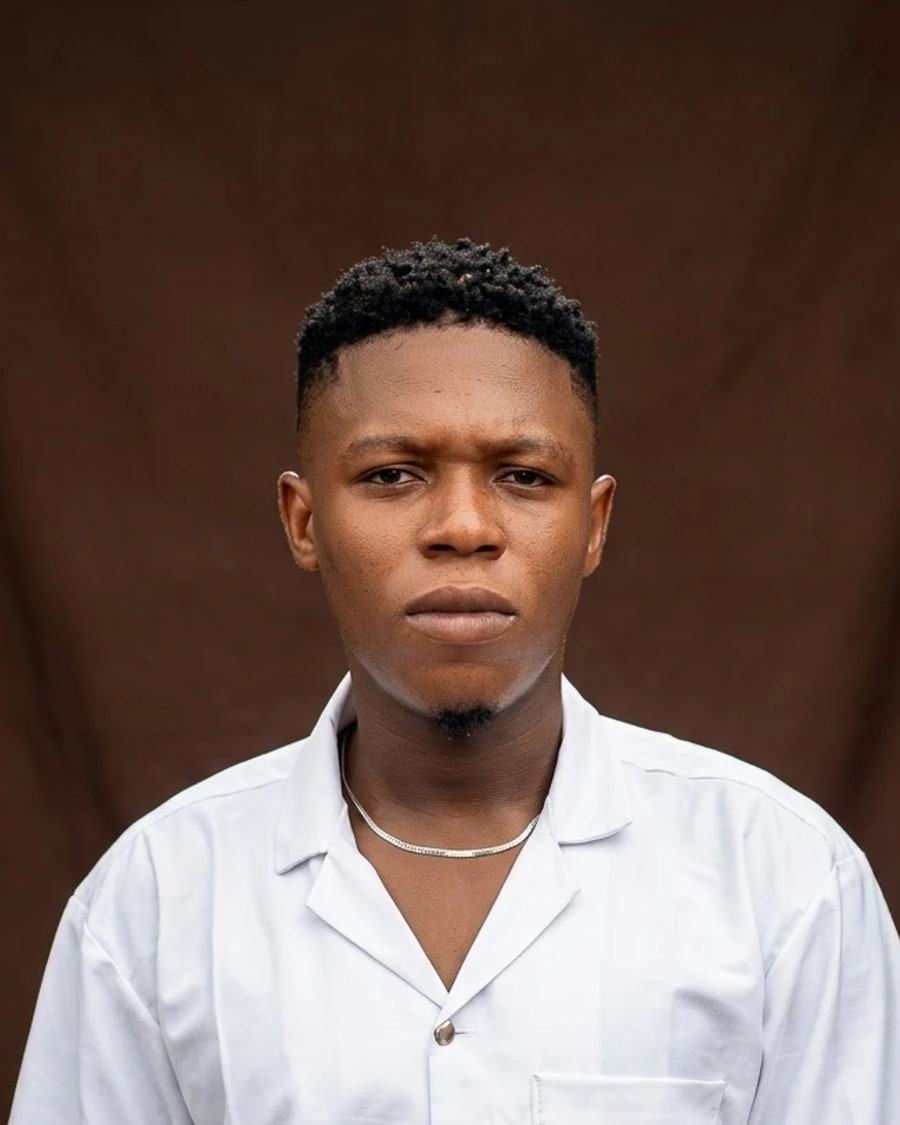
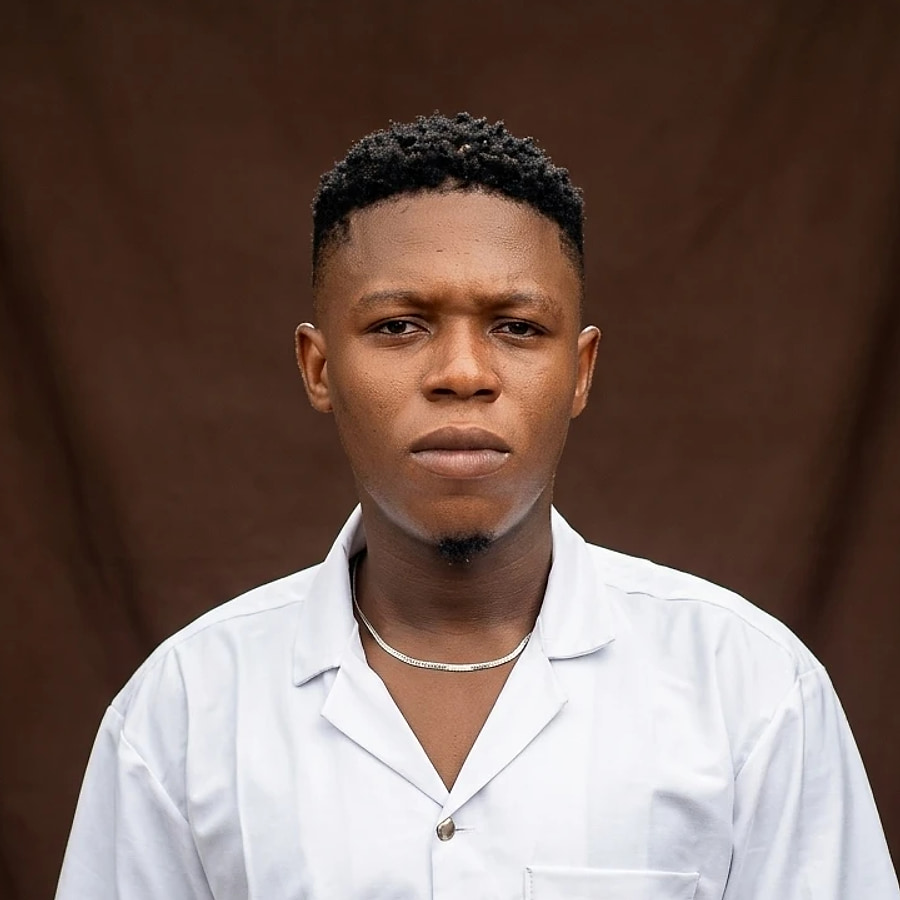
Switch the portrait frames to circles and re-crop to match
Reframes the photo the way the reference card presents it: a circular mask
with the head prominent and the first shirt button just inside the bottom of
the circle.

A circle needs a different crop from a 4:5 rectangle — the corners are masked
away, and the frame is deepest along the vertical centre line. So the photo is
now cropped square, sized so the head sits on that centre line where there is
most room. Candidates at 700 / 760 / 800px were rendered with the actual
circular mask applied and compared rather than guessed at; 720px was chosen,
putting the head at ~44% of the circle's height with 56px of clearance under
the button. Judging these unmasked would have been misleading.

Frames changed from rounded rectangles to circles in all three places — the
home hero, the home About teaser, and the About page — each with a concentric
hairline ring standing in for the reference card's outer ring, kept thin to
match the site's editorial rules rather than a heavy band.

Quality: resampled with lanczos3 and a light unsharp mask to recover the
crispness lost to the 1.25x upscale, at JPEG q92 with 4:4:4 chroma (no
subsampling, so the collar and chain edges stay clean). The source is only
800x1334, so this is close to the honest ceiling — a higher-resolution
original is still the real fix, noted in TODO-BEFORE-LAUNCH.

daniel-thumb.jpg is deleted. Now that every frame is a circle, the teaser uses
the same square source and next/image emits the small size, so a second file
[…]

diff --git a/app/page.tsx b/app/page.tsx
@@ -51,22 +51,22 @@ export default function HomePage() {
             </div>
           </div>
 
-          {/* Editorial portrait: framed rectangle, thin rule, not a floating
-              circle avatar. daniel.jpg is a 4:5 crop, so object-cover never
-              re-crops it — swapping in another photo at 4:5 keeps this framing. */}
+          {/* Circular portrait inside a concentric hairline ring.
+              daniel.jpg is cropped square for exactly this mask, so object-cover
+              never re-crops it — any replacement should be square too. */}
           <div className="md:col-span-5">
-            <figure className="relative mx-auto w-full max-w-[340px] md:max-w-none">
+            <figure className="relative mx-auto w-full max-w-[300px] sm:max-w-[340px] md:max-w-[400px]">
               <div
                 aria-hidden="true"
-                className="absolute -top-3 -right-3 bottom-3 left-3 rounded-md border border-hairline"
+                className="absolute -inset-3 rounded-full border border-hairline sm:-inset-4"
               />
-              <div className="relative aspect-[4/5] w-full overflow-hidden rounded-md border border-hairline bg-card">
+              <div className="relative aspect-square w-full overflow-hidden rounded-full border border-hairline bg-card">
                 <Image
                   src="/daniel.jpg"
                   alt={`Portrait of ${site.name}`}
                   fill
                   priority
-                  sizes="(max-width: 768px) 340px, 420px"
+                  sizes="(max-width: 640px) 300px, (max-width: 768px) 340px, 400px"
                   className="object-cover"
                 />
               </div>
@@ -196,9 +196,11 @@ export default function HomePage() {
           </div>
 
           <div className="order-1 md:order-2 md:col-span-4">
-            <div className="relative aspect-square w-32 overflow-hidden rounded-md border border-hairline bg-card md:ml-auto md:w-full md:max-w-[240px]">
+            {/* Same square source as the hero — next/image emits the small
+                size, so a separate thumbnail file is no longer needed. */}
+            <div className="relative aspect-square w-32 overflow-hidden rounded-full border border-hairline bg-card md:ml-auto md:w-full md:max-w-[240px]">
               <Image
-                src="/daniel-thumb.jpg"
+                src="/daniel.jpg"
                 alt=""
                 aria-hidden="true"
                 fill

diff --git a/app/about/page.tsx b/app/about/page.tsx
@@ -42,17 +42,23 @@ export default function AboutPage() {
           {/* Portrait */}
           <div className="md:col-span-5">
             <figure className="sticky top-28">
-              <div className="relative aspect-[4/5] w-full overflow-hidden rounded-md border border-hairline bg-card">
-                <Image
-                  src="/daniel.jpg"
-                  alt={`${site.name}, AI automation and e-commerce growth specialist`}
-                  fill
-                  priority
-                  sizes="(max-width: 768px) 100vw, 440px"
-                  className="object-cover"
+              <div className="relative mx-auto w-full max-w-[320px] sm:max-w-[380px] md:max-w-none">
+                <div
+                  aria-hidden="true"
+                  className="absolute -inset-3 rounded-full border border-hairline sm:-inset-4"
                 />
+                <div className="relative aspect-square w-full overflow-hidden rounded-full border border-hairline bg-card">
+                  <Image
+                    src="/daniel.jpg"
+                    alt={`${site.name}, AI automation and e-commerce growth specialist`}
+                    fill
+                    priority
+                    sizes="(max-width: 640px) 320px, (max-width: 768px) 380px, 420px"
+                    className="object-cover"
+                  />
+                </div>
               </div>
-              <figcaption className="mt-4 text-sm text-muted">
+              <figcaption className="mt-8 text-center text-sm text-muted md:text-left">
                 {site.name} — Lagos, Nigeria. Working with clients worldwide.
               </figcaption>
             </figure>

diff --git a/TODO-BEFORE-LAUNCH.md b/TODO-BEFORE-LAUNCH.md
@@ -36,14 +36,15 @@ Until the key is set, the form shows an orange "Setup needed" notice on the page
 
 ## 3. Your photo
 
-- [x] **Done.** `public/daniel.jpg` (900 × 1125, 4:5) and
-      `public/daniel-thumb.jpg` (800 × 800) are your real portrait, cropped at
-      the chest just below the first shirt button.
-- [ ] Optional: send a **higher-resolution original** if you have one. The
-      version used here came in at 800 × 1334, which is slightly under what a
-      retina screen wants for the About page. It looks fine; a larger file
-      would look sharper. Crop the replacement to 4:5 and 1:1, keep both
-      filenames.
+- [x] **Done.** `public/daniel.jpg` (900 × 900) is your real portrait, cropped
+      square for the circular frames, cut at the chest with the first shirt
+      button just inside the bottom of the circle. One file now serves the home
+      hero, the About page and the small home teaser.
+- [ ] Optional: send a **higher-resolution original** if you have one. What you
+      sent came in at 800 × 1334, so the square crop is 720px before scaling —
+      a touch under what a retina screen wants at the largest size. It looks
+      good as-is; a bigger file would be sharper.
+      **Crop any replacement square (1:1)** — the frames are circles now.
 - [ ] Optional: replace **`public/og.png`** (1200 × 630). This is the preview
       card people see when your link is shared in WhatsApp, LinkedIn or X.
       Right now it's a clean typographic card — your photo would work too.
